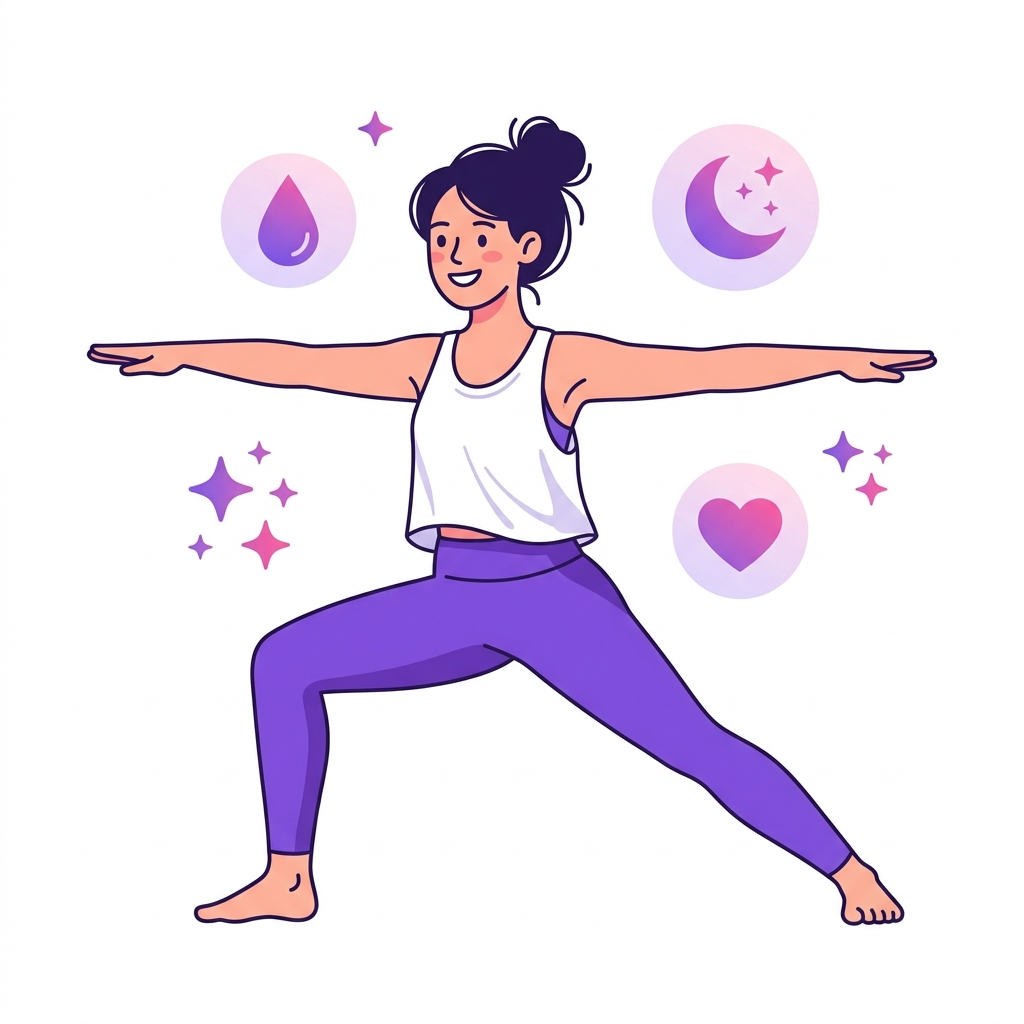
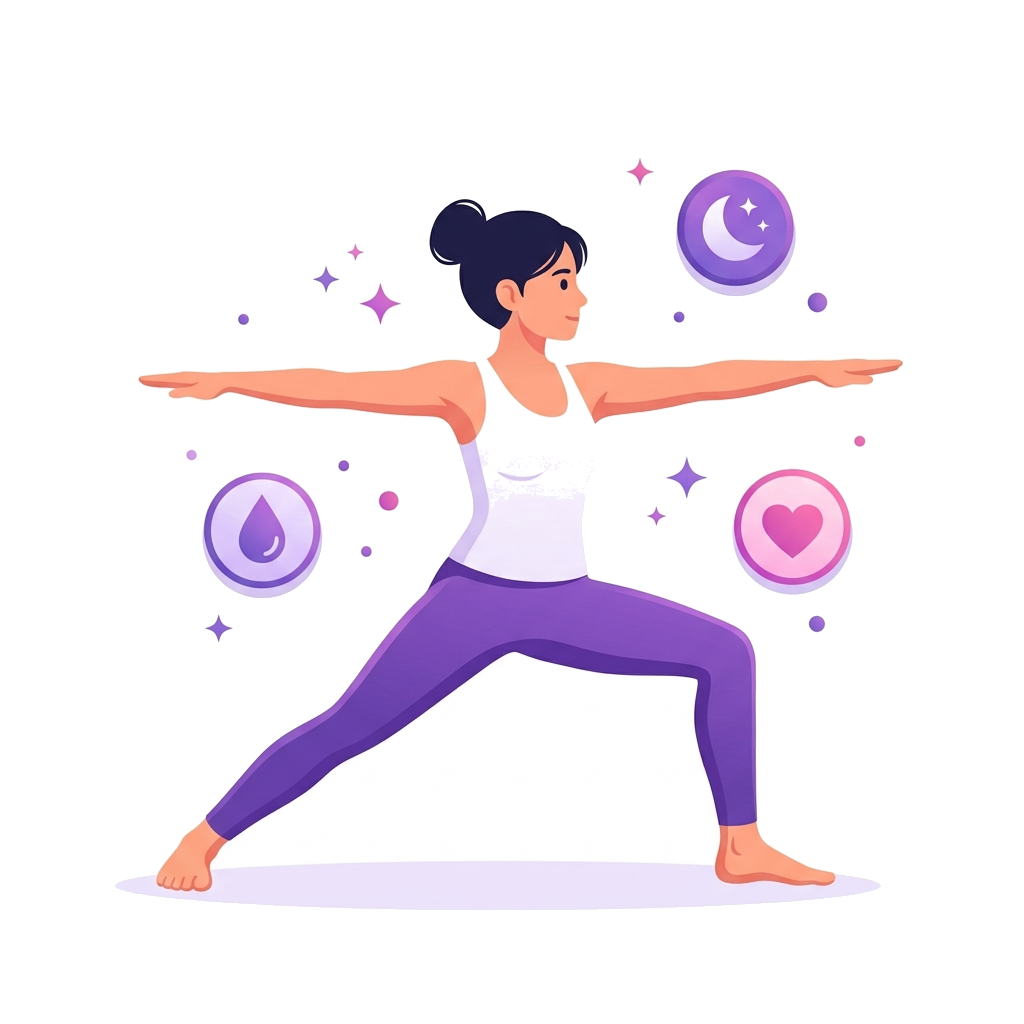
design: remove onboarding page card backgrounds and update illustrations to transparent floating design

diff --git a/app/(onboarding)/index.tsx b/app/(onboarding)/index.tsx
@@ -170,15 +170,8 @@ function SlideItem({ slide, index, scrollX }: SlideItemProps) {
 
   return (
     <View style={styles.slideContainer}>
-      {/* Illustration Card */}
-      <Animated.View style={[styles.illustrationCard, cardStyle]}>
-        {/* Soft gradient tint behind illustration */}
-        <LinearGradient
-          colors={['#EDE9FE', '#FAE8FF']}
-          start={{ x: 0, y: 0 }}
-          end={{ x: 1, y: 1 }}
-          style={StyleSheet.absoluteFillObject}
-        />
+      {/* Illustration Container */}
+      <Animated.View style={[styles.illustrationContainer, cardStyle]}>
         <Image
           source={slide.image}
           style={styles.illustrationImage}
@@ -426,24 +419,13 @@ const styles = StyleSheet.create({
     paddingBottom: 8,
   },
 
-  // Circular card housing the illustration
-  illustrationCard: {
+  // Transparent container housing the illustration
+  illustrationContainer: {
     width: SCREEN_WIDTH - 80,
     height: SCREEN_WIDTH - 80,
-    borderRadius: radius.full,
-    overflow: 'hidden',
     justifyContent: 'center',
     alignItems: 'center',
     marginTop: 8,
-    ...Platform.select({
-      ios: {
-        shadowColor: '#9499A7',
-        shadowOpacity: 0.15,
-        shadowOffset: { width: 0, height: 8 },
-        shadowRadius: 24,
-      },
-      android: { elevation: 8 },
-    }),
   },
 
   illustrationImage: {